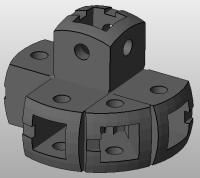
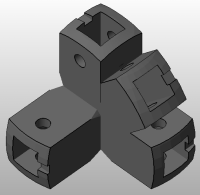
bugFix angles inversés + maj image

diff --git a/python/solid.py b/python/solid.py
@@ -116,25 +116,24 @@ class Solid: # TODO : singleton
 	def display(self, debug_path):
 		with open(debug_path, 'w') as f_debug:
 			f_debug.write("*** Corners position and connexions ***\n\n")
-			for corner in self.corners:
-				f_debug.write(str(corner.get_id()) + ": " + str(corner.get_position()))
-				f_debug.write(" - " + str(corner.get_connected_corners()) + "\n")
+			for i, corner in enumerate(self.corners):
+				f_debug.write(str(i+1) + ": " + str(corner.get_id()) + " - " + str(corner.get_position()) + " - " + str(corner.get_connected_corners()) + "\n")
 
 			f_debug.write("\n*** Polygons connexions ***\n\n")
-			for polygon in self.polygons:
-				f_debug.write(str(polygon.get_id()) + ": " + str(polygon.get_corners()) + "\n")
+			for i, polygon in enumerate(self.polygons):
+				f_debug.write(str(i+1) + ": " + str(polygon.get_id()) + " - " + str(polygon.get_corners()) + "\n")
 
 			f_debug.write("\n*** Edges connexions and length ***\n\n")
-			for edge in self.edges:
-				f_debug.write(str(edge.get_id()) + ": " + str(edge.get_extremities()) + " - " + str(edge.get_length()) + "\n")
+			for i, edge in enumerate(self.edges):
+				f_debug.write(str(i+1) + ": " + str(edge.get_id()) + " - " + str(edge.get_extremities()) + " - " + str(edge.get_length()) + "\n")
 
-			f_debug.write("\n*** Parameters ***\n\n")
-			for corner in self.corners:
-				f_debug.write(str(corner.get_id()) + ": " + str(corner.get_data()))
+			f_debug.write("\n*** Angles ***\n\n")
+			for i, corner in enumerate(self.corners):
+				f_debug.write(str(i+1) + ": " + str(corner.get_id()) + " - " + str(corner.get_angles()) + "\n")
 
 	def build_csv(self, f_table_path, start_from, finish_at, shuffle):
 		infos = str(self.get_nb_corners()) + " corners," + str(self.get_nb_polygons()) + " polygons\n"
-		labels = "id,x,y,z,rod 1-H,rod 1-V,rod 2-H,rod 2-V,rod 3-H,rod 3-V,rod 4-H,rod 4-V,rod 5-H,rod 5-V,rod 6-H,rod 6-V,rod 7-H,rod 7-V,rod 8-H,rod 8-V\n"
+		labels = "id,x,y,z,rod 1-V,rod 1-H,rod 2-V,rod 2-H,rod 3-V,rod 3-H,rod 4-V,rod 4-H,rod 5-V,rod 5-H,rod 6-V,rod 6-H,rod 7-V,rod 7-H,rod 8-V,rod 8-H\n"
 		finish_at = self.get_nb_corners() if finish_at == 0 else finish_at+1
 
 		right_limit = self.get_nb_corners()-finish_at

diff --git a/python/corner.py b/python/corner.py
@@ -33,8 +33,8 @@ class Corner:
 	def set_angles(self, target_position):
 		init_pos = self.position
 		
-		relative_pos = [target_position[0]-self.position[0], target_position[1]-self.position[1], target_position[2]-self.position[2]]
-	
+		relative_pos = [target_position[0]-init_pos[0], target_position[1]-init_pos[1], target_position[2]-init_pos[2]]
+		
 		# calcul angle_h
 		if relative_pos[0] == 0:
 			angle_h = 90 if relative_pos[1] >= 0 else -90
@@ -43,9 +43,7 @@ class Corner:
 		else:
 			angle_h = math.degrees(math.atan(relative_pos[0] / relative_pos[1]))
 			if relative_pos[0] < 0 and relative_pos[1] < 0: angle_h -= 180
-
 		angle_h = angle_h+360 if angle_h < 0 else angle_h
-		self.angles.append(angle_h)
 		
 		#calcul angle_v
 		hypot = math.hypot(relative_pos[0], relative_pos[1])
@@ -54,7 +52,8 @@ class Corner:
 		else:
 			angle_v = 90-math.degrees(math.atan(relative_pos[2] / hypot))
 	
-		self.angles.append(angle_v)
+		self.angles.append(int(round(angle_v)))
+		self.angles.append(int(round(angle_h)))
 	
 	def set_data(self):
 		self.data += self.number_to_txt(self.id, 5)
@@ -68,10 +67,8 @@ class Corner:
 		self.data += "\n"
 
 	def number_to_txt(self, nb, size):
-		max_nb = pow(10, size)-1
-		nb = max_nb if nb > max_nb else nb
-		word = str(int(round(nb)))
+		nb = "err" if nb > pow(10, size)-1 else str(nb)
 
-		while len(word) < size:
-			word = "0" + word
-		return word
+		while len(nb) < size:
+			nb = "0" + nb
+		return nb

diff --git a/python/export.py b/python/export.py
@@ -21,10 +21,10 @@ class Export: # TODO : singleton
 		self.low_qlt = low_qlt
 
 	def _get_nb_lines(self, input_path):
-		nb_lines = 0
 		with open(input_path, 'r') as f_input:
-			for line in f_input: nb_lines += 1
-		return nb_lines
+			for nb_lines, line in enumerate(f_input):
+				pass
+		return nb_lines + 1
 
 	def _print_status(self, i, nb_corners, t_init, picture=False):
 		f_type = "picture" if picture else "stl file"
@@ -74,8 +74,7 @@ class Export: # TODO : singleton
 			print f_table.readline()
 			f_table.readline()
 
-			i = 0
-			for line in f_table:
+			for i, line in enumerate(f_table):
 				self._print_status(i, nb_corners, t_init, True)
 				name = line[0:5]
 				start = [m.start() for m in re.finditer(r",",line)][3] # position de départ des données
@@ -87,7 +86,6 @@ class Export: # TODO : singleton
 				output_file = img_dir + name + ".png"
 				
 				self.openscad(corner_scad_path, options, output_file)
-				i += 1
 
 	def make_stls(self):
 		nb_corners = self._get_nb_lines(self.table_path)-2
@@ -100,9 +98,7 @@ class Export: # TODO : singleton
 			print "Model details: " + f_table.readline() + "."
 			f_table.readline()
 			
-			i = 0
-			for line in f_table: # ugly
-				i+=1
+			for i, line in enumerate(f_table):
 				self._print_status(i, nb_corners, t_init)
 				name = line[:5]
 				start = [m.start() for m in re.finditer(r",",line)][3] # position de départ des données
